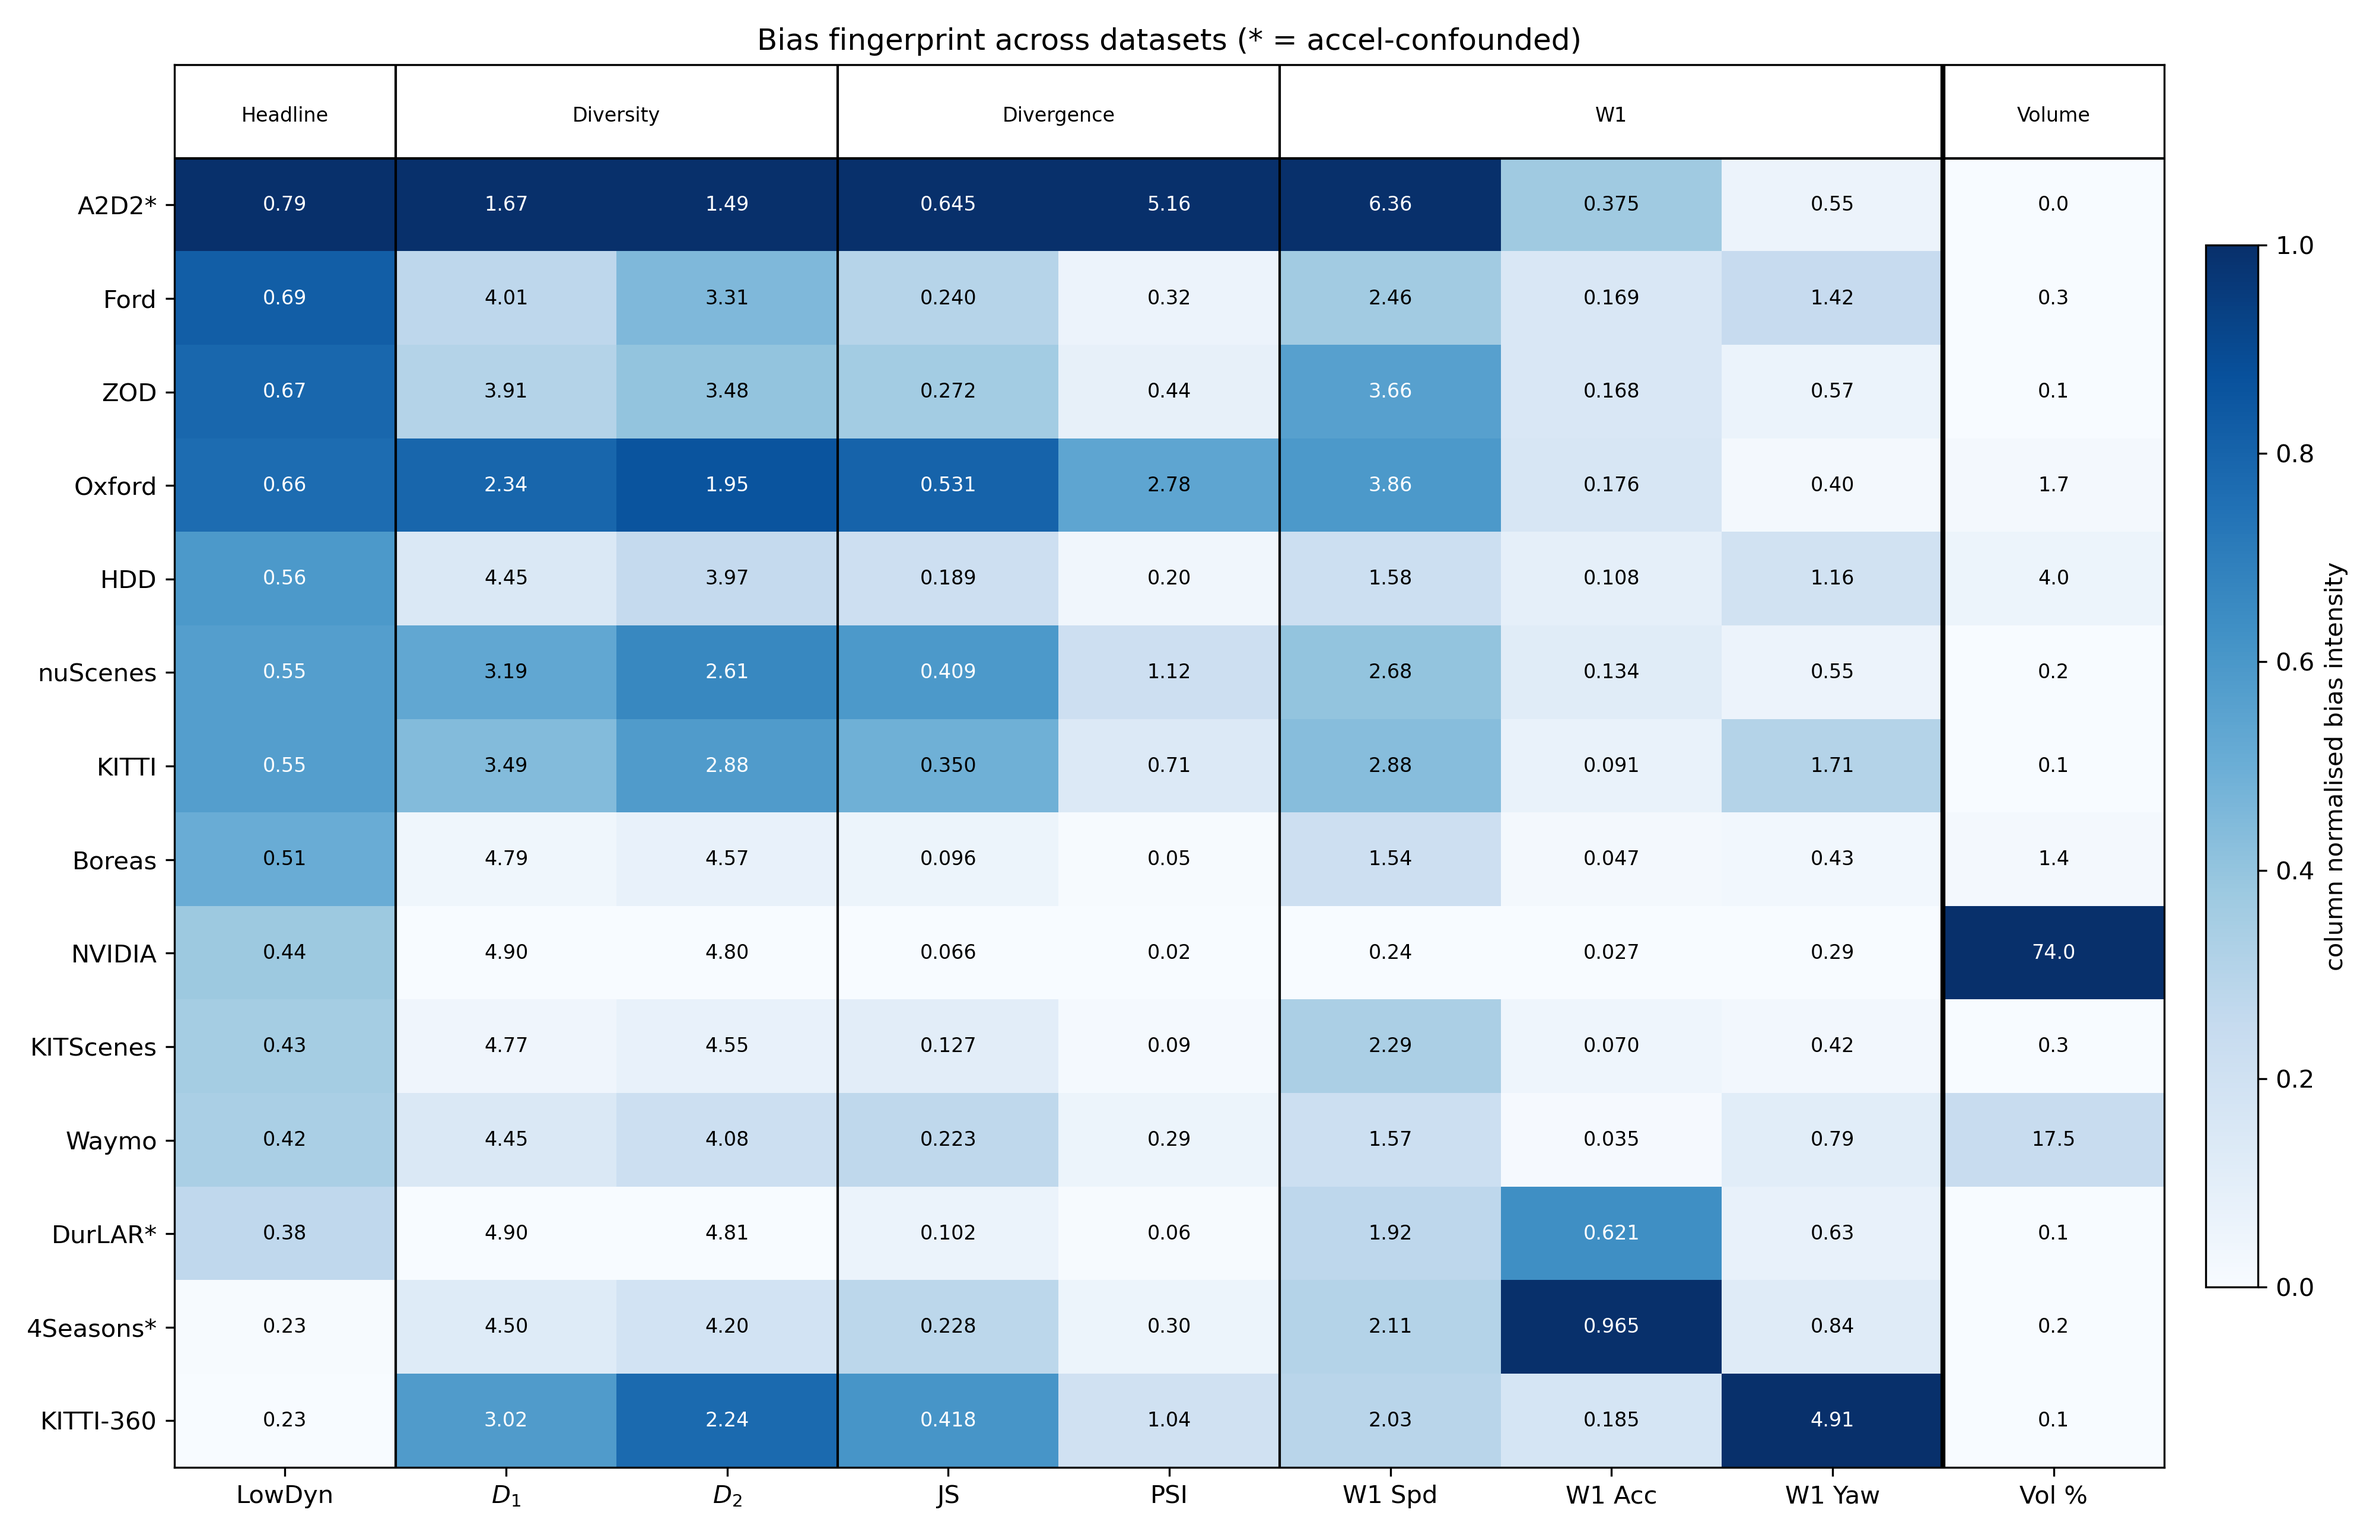
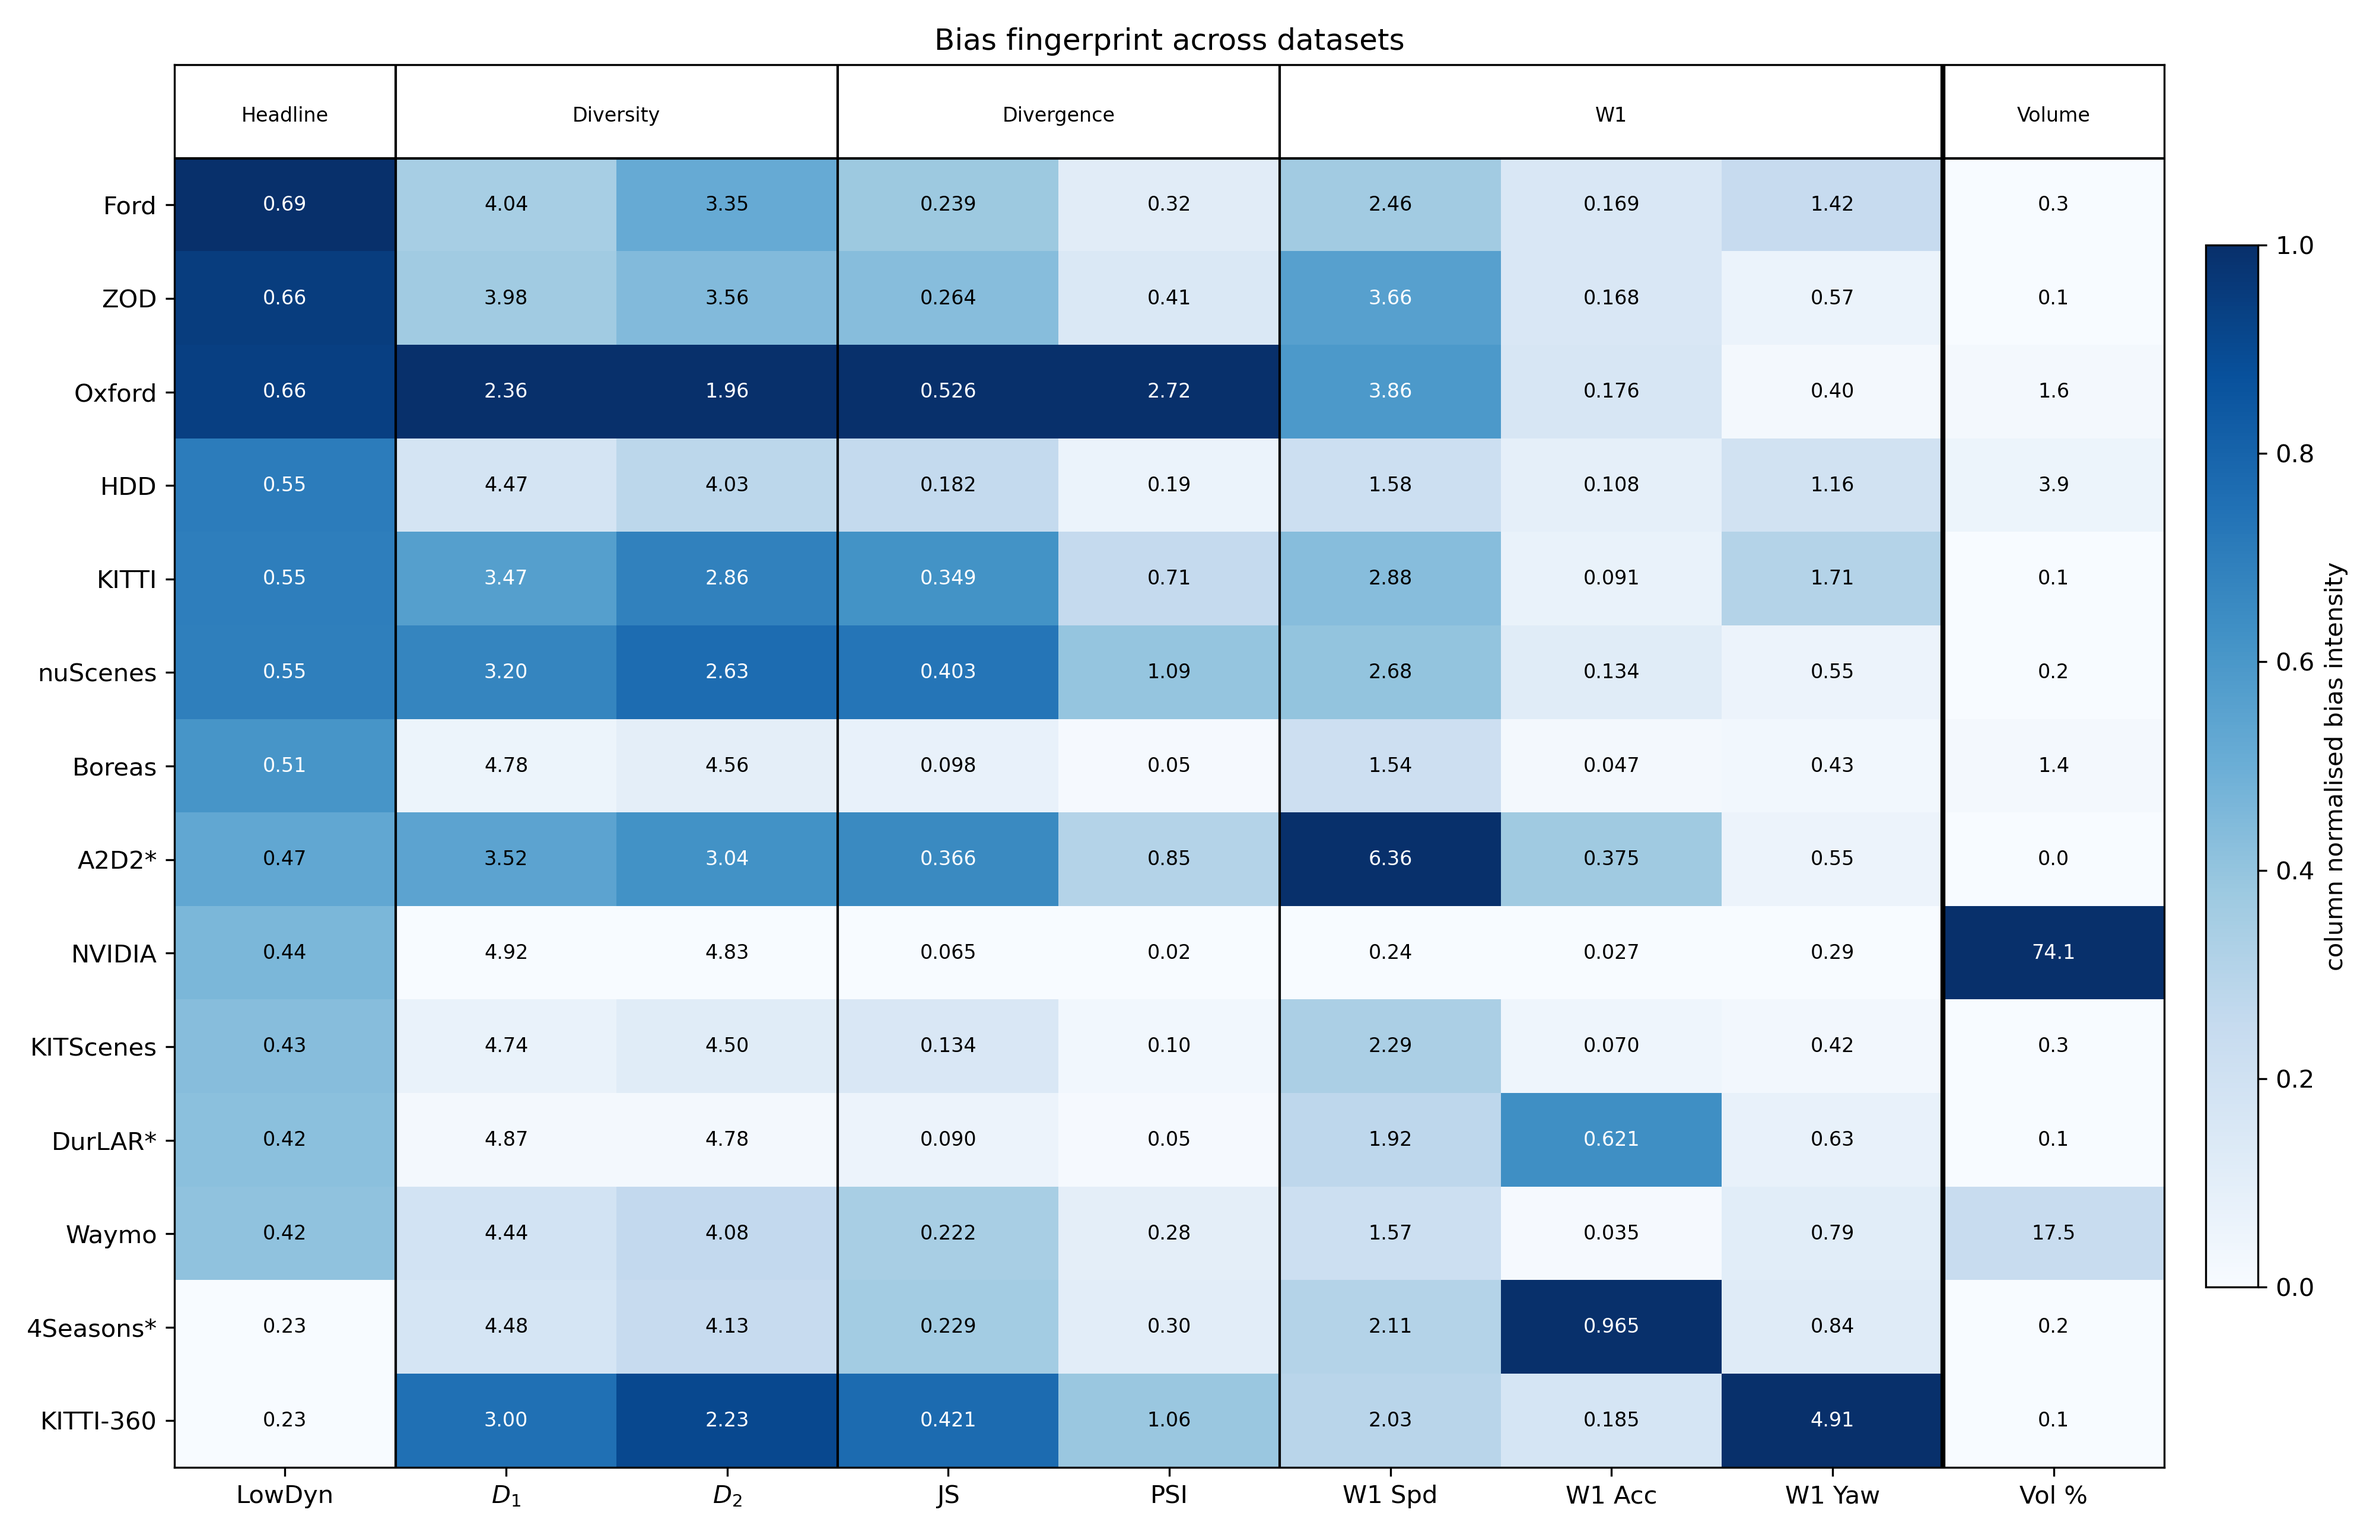
10.7 understood

diff --git a/bias_quantification/bias_share_heatmap.py b/bias_quantification/bias_share_heatmap.py
@@ -1,0 +1,93 @@
+"""
+bias_share_heatmap.py  —  Section 10.3 figure (the share matrix, exact values)
+════════════════════════════════════════════════════════════════════════════
+The per-dataset regime-share matrix printed cell by cell: rows are the
+datasets, ordered by the RQ1 headline metric (low-dynamic share, descending),
+columns are the five regimes, and every cell carries the exact percentage.
+
+Role among the three Section 10.3 views of the ONE share matrix:
+  * bias_stacked_bar.py  — the ranking and the pooled/equal-weight gap
+  * bias_regime_grid.py  — each dataset's profile SHAPE against the uniform 20 %
+  * this figure          — the exact per-cell percentages, which stacked
+                           segments resist comparing across datasets
+
+Rows sum to 100 % (dataset composition). The transposed normalisation — who
+SUPPLIES each regime — is bias_regime_supply.py, and the two are never
+confused: one is a row-normalised composition, the other a column-normalised
+provenance.
+
+Reads : ARTIFACT_DIR/bias_per_dataset.parquet
+Output: figures/bias_share_heatmap.png
+
+Strict matplotlib: pure defaults, dpi=300. Single small in-cell font size —
+the documented heatmap exception.
+════════════════════════════════════════════════════════════════════════════
+"""
+from pathlib import Path
+
+import numpy as np
+import pandas as pd
+import matplotlib.pyplot as plt
+
+from regime_style import N_REGIMES, regime_label
+from bias_quant import CONFOUNDED_ACCEL
+
+# ── canonical constants block ────────────────────────────────────────────────
+PROJECT_ROOT = Path("/Users/edward/Downloads")
+ARTIFACT_DIR = PROJECT_ROOT / "dataset" / "regime_data"
+# Chapter 10 code + figures live under bachelor-arbeit/bias_quantification/
+OUT_DIR      = PROJECT_ROOT / "bachelor-arbeit" / "bias_quantification" / "figures"
+
+DISPLAY_NAMES = {
+    "boreas_rt": "Boreas", "durlar": "DurLAR", "ford": "Ford", "kitti": "KITTI",
+    "kitti360": "KITTI-360", "nuscene": "nuScenes", "nvidia": "NVIDIA",
+    "oxford": "Oxford", "waymo": "Waymo", "zod": "ZOD",
+    "4seasons": "4Seasons", "hdd": "HDD", "a2d2": "A2D2", "kitscenes": "KITScenes",
+}
+DPI      = 300
+CELL_FS  = 8      # documented heatmap exception: in-cell annotation font
+
+SHARE_COLS = [f"share_{i}" for i in range(N_REGIMES)]
+
+
+def plot_share_heatmap(per, out_dir):
+    order = per.sort_values("low_dynamic_share", ascending=False).index
+    names = [DISPLAY_NAMES.get(ds, ds) + ("*" if ds in CONFOUNDED_ACCEL else "")
+             for ds in order]
+    M = np.array([[per.loc[ds, c] * 100.0 for c in SHARE_COLS] for ds in order])
+
+    fig, ax = plt.subplots(figsize=(9, 9))
+    im = ax.imshow(M, cmap="Blues", aspect="auto", vmin=0.0, vmax=float(M.max()))
+
+    ax.set_xticks(range(N_REGIMES))
+    ax.set_xticklabels([regime_label(i) for i in range(N_REGIMES)],
+                       rotation=30, ha="right")
+    ax.set_yticks(range(len(order)))
+    ax.set_yticklabels(names)
+    ax.set_title("Regime share (%) per dataset ")
+
+    thresh = 0.55 * M.max()
+    for r in range(len(order)):
+        for c in range(N_REGIMES):
+            ax.text(c, r, f"{M[r, c]:.0f}", ha="center", va="center",
+                    fontsize=CELL_FS,
+                    color="white" if M[r, c] > thresh else "black")
+
+    cbar = fig.colorbar(im, ax=ax, fraction=0.046, pad=0.04)
+    cbar.set_label("Share of 20 s windows (%)")
+
+    fig.tight_layout()
+    out_dir.mkdir(parents=True, exist_ok=True)
+    out_path = out_dir / "bias_share_heatmap.png"
+    fig.savefig(out_path, dpi=DPI)
+    plt.close(fig)
+    print(f"  [SAVED] {out_path}")
+
+
+def main():
+    per = pd.read_parquet(ARTIFACT_DIR / "bias_per_dataset.parquet")
+    plot_share_heatmap(per, OUT_DIR)
+
+
+if __name__ == "__main__":
+    main()

diff --git a/bias_quantification/bias_regime_grid.py b/bias_quantification/bias_regime_grid.py
@@ -74,8 +74,8 @@ def plot_grid(per, out_dir):
     axes[0][0].set_ylabel("share of windows (%)")
     axes[1][0].set_ylabel("share of windows (%)")
 
-    key = " · ".join(f"{i} {regime_label(i)}" for i in range(N_REGIMES))
-    fig.suptitle(f"Per-dataset regime distributions (* = accel-confounded)\nRegimes: {key}")
+    key = ", ".join(f"{i} = {regime_label(i)}" for i in range(N_REGIMES))
+    fig.suptitle(f"Per-dataset regime distributions \nRegimes: {key}")
     fig.tight_layout()
     out_dir.mkdir(parents=True, exist_ok=True)
     out_path = out_dir / "bias_regime_grid.png"

diff --git a/bias_quantification/bias_shape_metrics.py b/bias_quantification/bias_shape_metrics.py
@@ -118,8 +118,7 @@ def fig_lorenz(datasets, data, tab):
     ax.set_xlabel("Cumulative fraction of 20 s windows (calmest first)")
     ax.set_ylabel("Cumulative fraction of speed-variability mass")
     ax.set_title("Dynamic concentration: Lorenz curves of window "
-                 "\u03c3-speed\n(Legend: dynamic-content Gini per dataset, "
-                 "* = accel-confounded)")
+                 "\u03c3-speed\n(Legend: dynamic-content Gini per dataset)")
     ax.grid(True, alpha=0.3)
     ax.set_axisbelow(True)
     ax.legend(loc="upper left", ncol=2)

diff --git a/bias_quantification/bias_volume.py b/bias_quantification/bias_volume.py
@@ -84,7 +84,7 @@ def fig_lorenz(tab, scalars):
     ax.set_ylabel("Cumulative fraction of 20 s windows")
     # two-line title: the one-line version clipped at the figure edge
     ax.set_title("Corpus volume concentration\n"
-                 f"volume-share Gini = {scalars['volume_gini']:.2f} \u00b7 "
+                 f"volume-share Gini = {scalars['volume_gini']:.2f}, "
                  f"effective datasets $D_2$ \u2248 {scalars['eff_datasets_d2']:.1f} "
                  f"of {scalars['n_datasets']}")
     ax.grid(True, alpha=0.3)

diff --git a/bias_quantification/bias_stacked_bar.py b/bias_quantification/bias_stacked_bar.py
@@ -79,7 +79,7 @@ def plot_stacked_bar(per, profiles, out_dir):
     ax.set_xlim(0, 100)
     # reserve an empty band BELOW the bottom bar so the legend does not cover it
     ax.set_ylim(-2.6, y.max() + 0.8)
-    ax.set_xlabel("Share of 20 s windows (%)   (* = accel-confounded signal, see §6.6)")
+    ax.set_xlabel("Share of 20 s windows (%) ")
     ax.set_title("Per-dataset dynamic-regime composition, ordered by low-dynamic share")
     ax.grid(axis="x", alpha=0.3)
     ax.set_axisbelow(True)

diff --git a/bias_quantification/bias_bootstrap.py b/bias_quantification/bias_bootstrap.py
@@ -147,7 +147,7 @@ def fig_share_ci(tab, refs):
 
     ax.set_yticks(y)
     ax.set_yticklabels([label(d) for d in t.index])
-    ax.set_xlabel("Low-dynamic share (regimes {0, 1}) with 95 % clip-bootstrap CI")
+    ax.set_xlabel("Low-dynamic share (regimes {0, 1}) with 95% clip-bootstrap CI")
     ax.set_title(f"Headline metric with uncertainty (B = {B}, clip-level resampling)")
     ax.grid(True, alpha=0.3)
     ax.set_axisbelow(True)

diff --git a/bias_quantification/bias_regime_supply.py b/bias_quantification/bias_regime_supply.py
@@ -103,8 +103,7 @@ def main():
     tab["n_windows"] = counts.sum(axis=1).astype(int)
     shown = tab.copy()
     shown.index = [label(d) for d in shown.index]
-    print("\nRegime supply (% of each regime's pooled windows; "
-          "* = confounded acceleration):\n")
+    print("\nRegime supply (% of each regime's pooled windows "\n")
     print(shown.round(2).to_string())
 
     print(f"\nTop {TOP_K} suppliers per regime:")

diff --git a/bias_quantification/bias_wasserstein.py b/bias_quantification/bias_wasserstein.py
@@ -76,7 +76,7 @@ def plot_wasserstein(per, out_dir):
     axes[0].set_yticks(y)
     axes[0].set_yticklabels(names)
 
-    fig.suptitle("Per-channel 1-Wasserstein distance to the pooled reference (* = accel-confounded)")
+    fig.suptitle("Per-channel 1-Wasserstein distance to the pooled reference")
     fig.tight_layout()
     out_dir.mkdir(parents=True, exist_ok=True)
     out_path = out_dir / "bias_wasserstein.png"

diff --git a/bias_quantification/bias_gmm_entropy.py b/bias_quantification/bias_gmm_entropy.py
@@ -121,7 +121,7 @@ def fig_entropy(tab, pooled_mean):
     axes[1].grid(axis="x", alpha=0.3)
     axes[1].set_axisbelow(True)
 
-    fig.suptitle("Boundary bias: regime-core vs overlap-zone occupancy per dataset (* = accel-confounded)")
+    fig.suptitle("Boundary bias: regime-core vs overlap-zone occupancy per dataset")
     fig.tight_layout()
     out = OUT_DIR / "gmm_entropy.png"
     fig.savefig(out, dpi=DPI)

diff --git a/bias_quantification/bias_balance_metrics.py b/bias_quantification/bias_balance_metrics.py
@@ -83,7 +83,7 @@ def plot_balance(per, profiles, out_dir):
     axes[0].set_yticks(y)
     axes[0].set_yticklabels(names)
 
-    fig.suptitle("Per-dataset balance and distance metrics (* = accel-confounded)")
+    fig.suptitle("Per-dataset balance and distance metrics")
     fig.tight_layout()
     out_dir.mkdir(parents=True, exist_ok=True)
     out_path = out_dir / "bias_balance_metrics.png"

diff --git a/bias_quantification/bias_fingerprint.py b/bias_quantification/bias_fingerprint.py
@@ -154,7 +154,7 @@ def render(tab, raw, inten):
     cbar = fig.colorbar(im, ax=ax, fraction=0.025, pad=0.02)
     cbar.set_label("column normalised bias intensity")
 
-    ax.set_title("Bias fingerprint across datasets (* = accel-confounded)")
+    ax.set_title("Bias fingerprint across datasets")
     fig.tight_layout()
 
     out = OUT_DIR / "bias_fingerprint.png"
